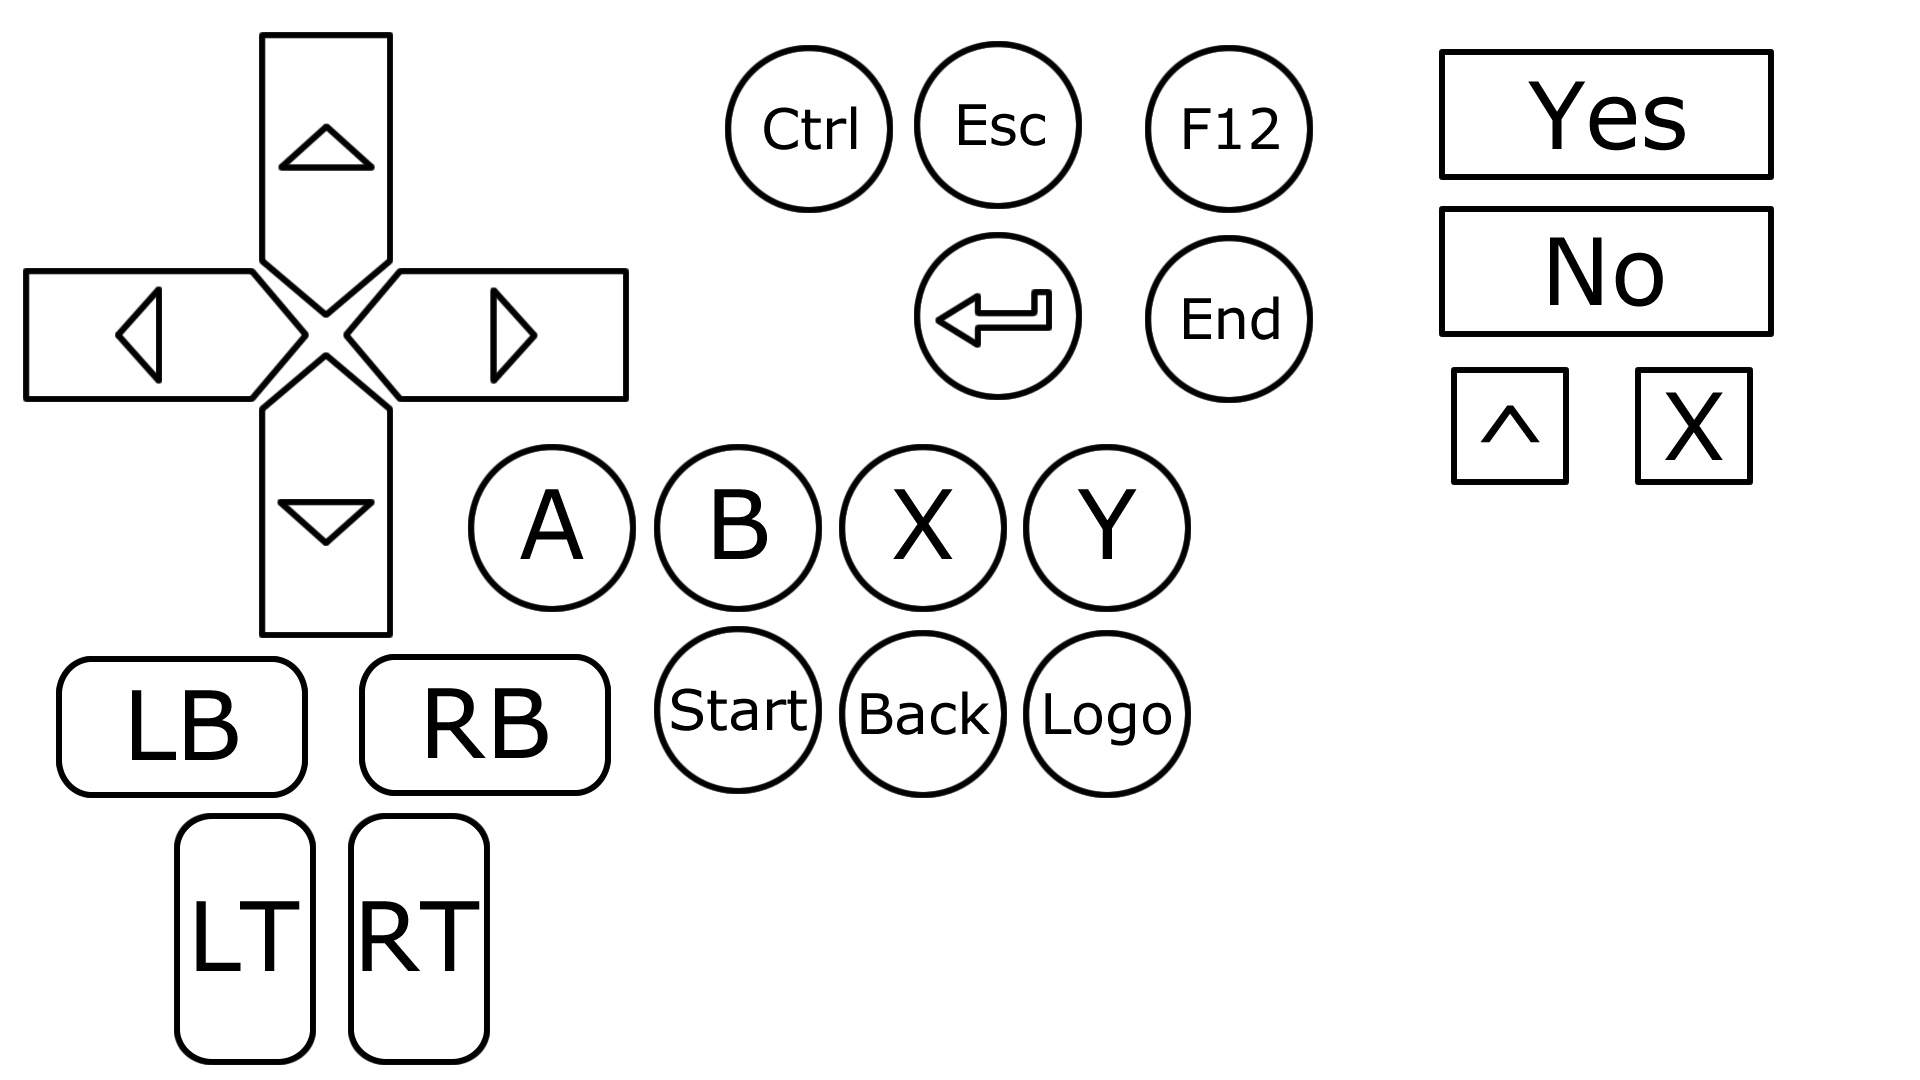
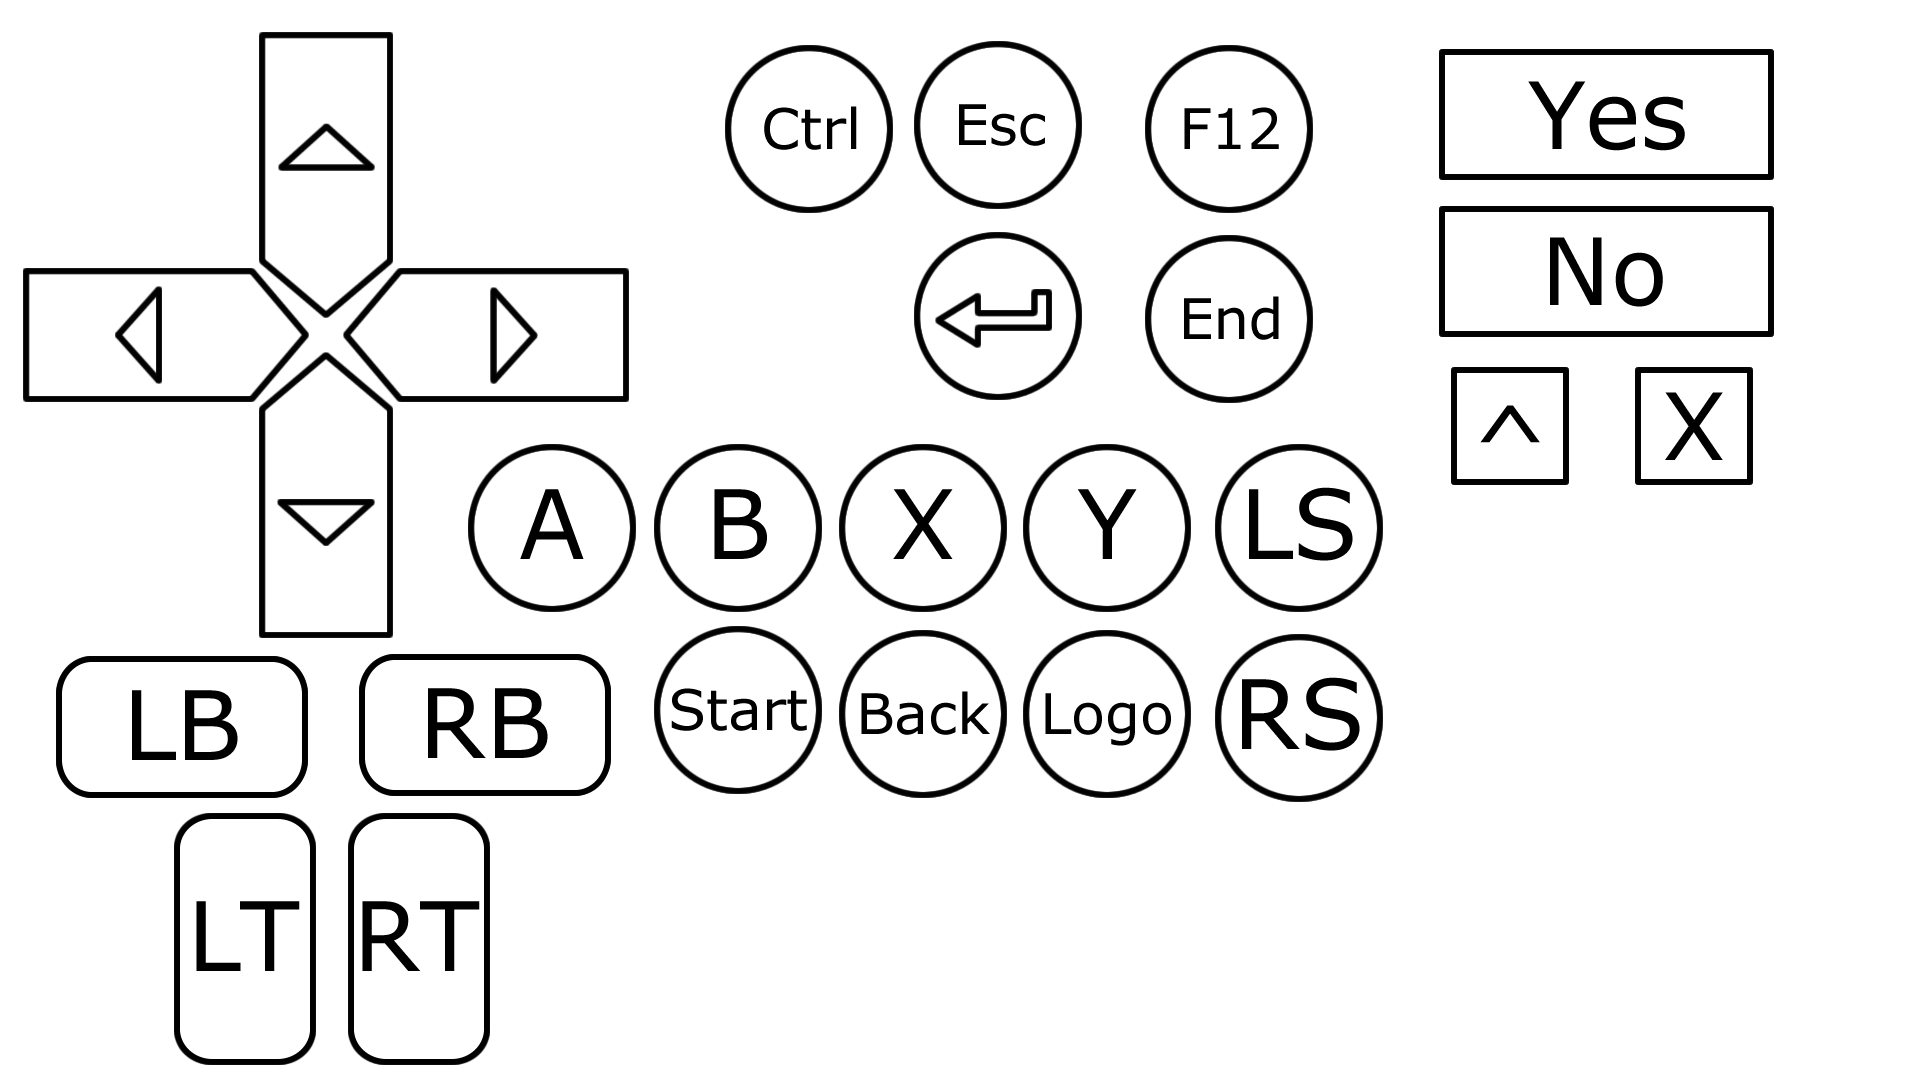
Added right stick and left stick buttons.

Changed region(s): [[0.625, 0.3972, 0.7188, 0.7333], [0.6562, 0.7333, 0.6875, 0.7639]]

diff --git a/osd-buttons/layout.xaml b/osd-buttons/layout.xaml
@@ -5,6 +5,8 @@
         <UserControl xmlns="http://schemas.microsoft.com/winfx/2006/xaml/presentation" xmlns:x="http://schemas.microsoft.com/winfx/2006/xaml" xmlns:mc="http://schemas.openxmlformats.org/markup-compatibility/2006" xmlns:d="http://schemas.microsoft.com/expression/blend/2008" mc:Ignorable="d">
             <Ellipse Tag="stick:x360.right" Fill="#FFF4F4F5" HorizontalAlignment="Right" Height="132" Margin="0,0,62,135" Stroke="Black" VerticalAlignment="Bottom" Width="132" IsManipulationEnabled="true" Opacity="0.3" Stylus.IsPressAndHoldEnabled="False"/>
         </UserControl>
+		<Image x:Name="image_xinput_ls" Tag="xinput:ls" HorizontalAlignment="Right" Height="64" Margin="0,0,175,90" VerticalAlignment="Bottom" Width="64" Source="images/ls.png" Opacity="0.3" Stylus.IsPressAndHoldEnabled="False"/>
+        <Image x:Name="image_xinput_rs" Tag="xinput:rs" HorizontalAlignment="Left" Height="64" Margin="175,0,0,90" VerticalAlignment="Bottom" Width="64" Source="images/rs.png" Opacity="0.3" Stylus.IsPressAndHoldEnabled="False"/>
         <Image x:Name="image_xinput_a" Tag="xinput:a" HorizontalAlignment="Right" Height="64" Margin="0,0,96,292" VerticalAlignment="Bottom" Width="64" Source="images/a.png" Opacity="0.3" Stylus.IsPressAndHoldEnabled="False"/>
         <Image x:Name="image_xinput_b" Tag="xinput:b" HorizontalAlignment="Right" Height="64" Margin="0,0,32,356" VerticalAlignment="Bottom" Width="64" Source="images/b.png" Opacity="0.3" Stylus.IsPressAndHoldEnabled="False"/>
         <Image x:Name="image_xinput_x" Tag="xinput:x" HorizontalAlignment="Right" Height="64" Margin="0,0,160,356" VerticalAlignment="Bottom" Width="64" Source="images/x.png" Opacity="0.3" Stylus.IsPressAndHoldEnabled="False"/>

diff --git a/osd-buttons/layouts/X360.xaml b/osd-buttons/layouts/X360.xaml
@@ -5,6 +5,8 @@
         <UserControl xmlns="http://schemas.microsoft.com/winfx/2006/xaml/presentation" xmlns:x="http://schemas.microsoft.com/winfx/2006/xaml" xmlns:mc="http://schemas.openxmlformats.org/markup-compatibility/2006" xmlns:d="http://schemas.microsoft.com/expression/blend/2008" mc:Ignorable="d">
             <Ellipse Tag="stick:x360.right" Fill="#FFF4F4F5" HorizontalAlignment="Right" Height="132" Margin="0,0,62,135" Stroke="Black" VerticalAlignment="Bottom" Width="132" IsManipulationEnabled="true" Opacity="0.3" Stylus.IsPressAndHoldEnabled="False"/>
         </UserControl>
+		<Image x:Name="image_xinput_ls" Tag="xinput:ls" HorizontalAlignment="Right" Height="64" Margin="0,0,175,90" VerticalAlignment="Bottom" Width="64" Source="images/ls.png" Opacity="0.3" Stylus.IsPressAndHoldEnabled="False"/>
+        <Image x:Name="image_xinput_rs" Tag="xinput:rs" HorizontalAlignment="Left" Height="64" Margin="175,0,0,90" VerticalAlignment="Bottom" Width="64" Source="images/rs.png" Opacity="0.3" Stylus.IsPressAndHoldEnabled="False"/>
         <Image x:Name="image_xinput_a" Tag="xinput:a" HorizontalAlignment="Right" Height="64" Margin="0,0,96,292" VerticalAlignment="Bottom" Width="64" Source="images/a.png" Opacity="0.3" Stylus.IsPressAndHoldEnabled="False"/>
         <Image x:Name="image_xinput_b" Tag="xinput:b" HorizontalAlignment="Right" Height="64" Margin="0,0,32,356" VerticalAlignment="Bottom" Width="64" Source="images/b.png" Opacity="0.3" Stylus.IsPressAndHoldEnabled="False"/>
         <Image x:Name="image_xinput_x" Tag="xinput:x" HorizontalAlignment="Right" Height="64" Margin="0,0,160,356" VerticalAlignment="Bottom" Width="64" Source="images/x.png" Opacity="0.3" Stylus.IsPressAndHoldEnabled="False"/>
